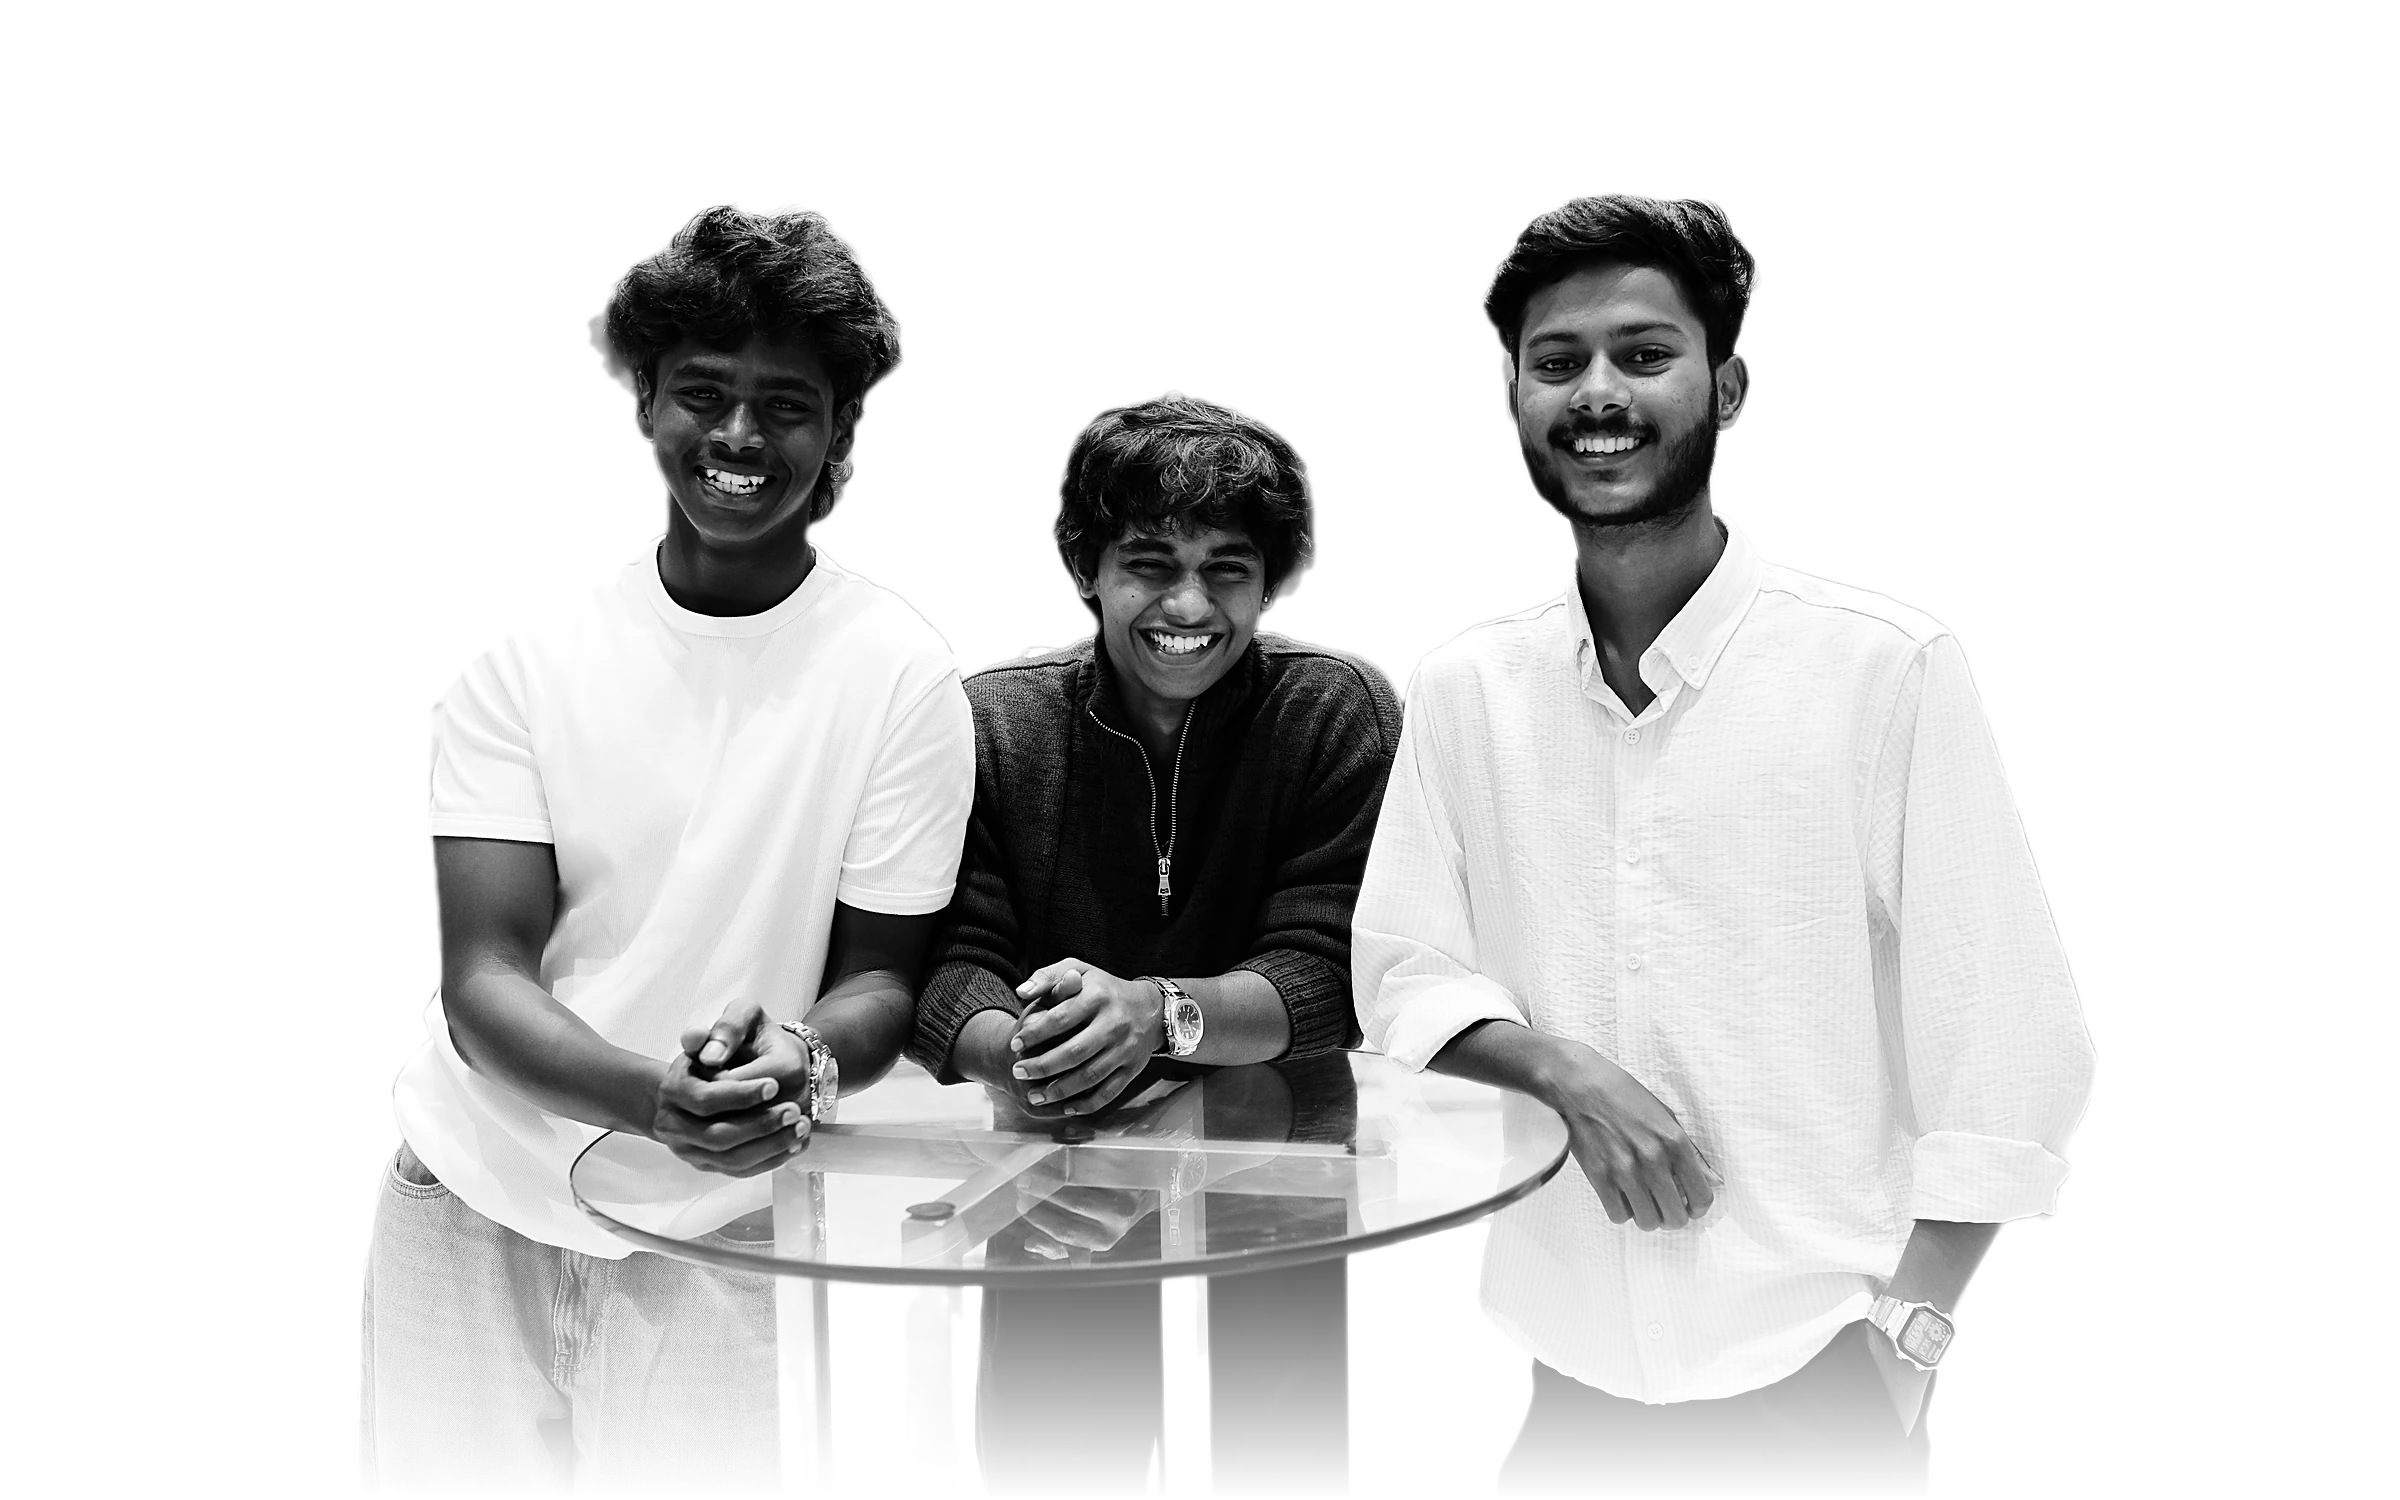
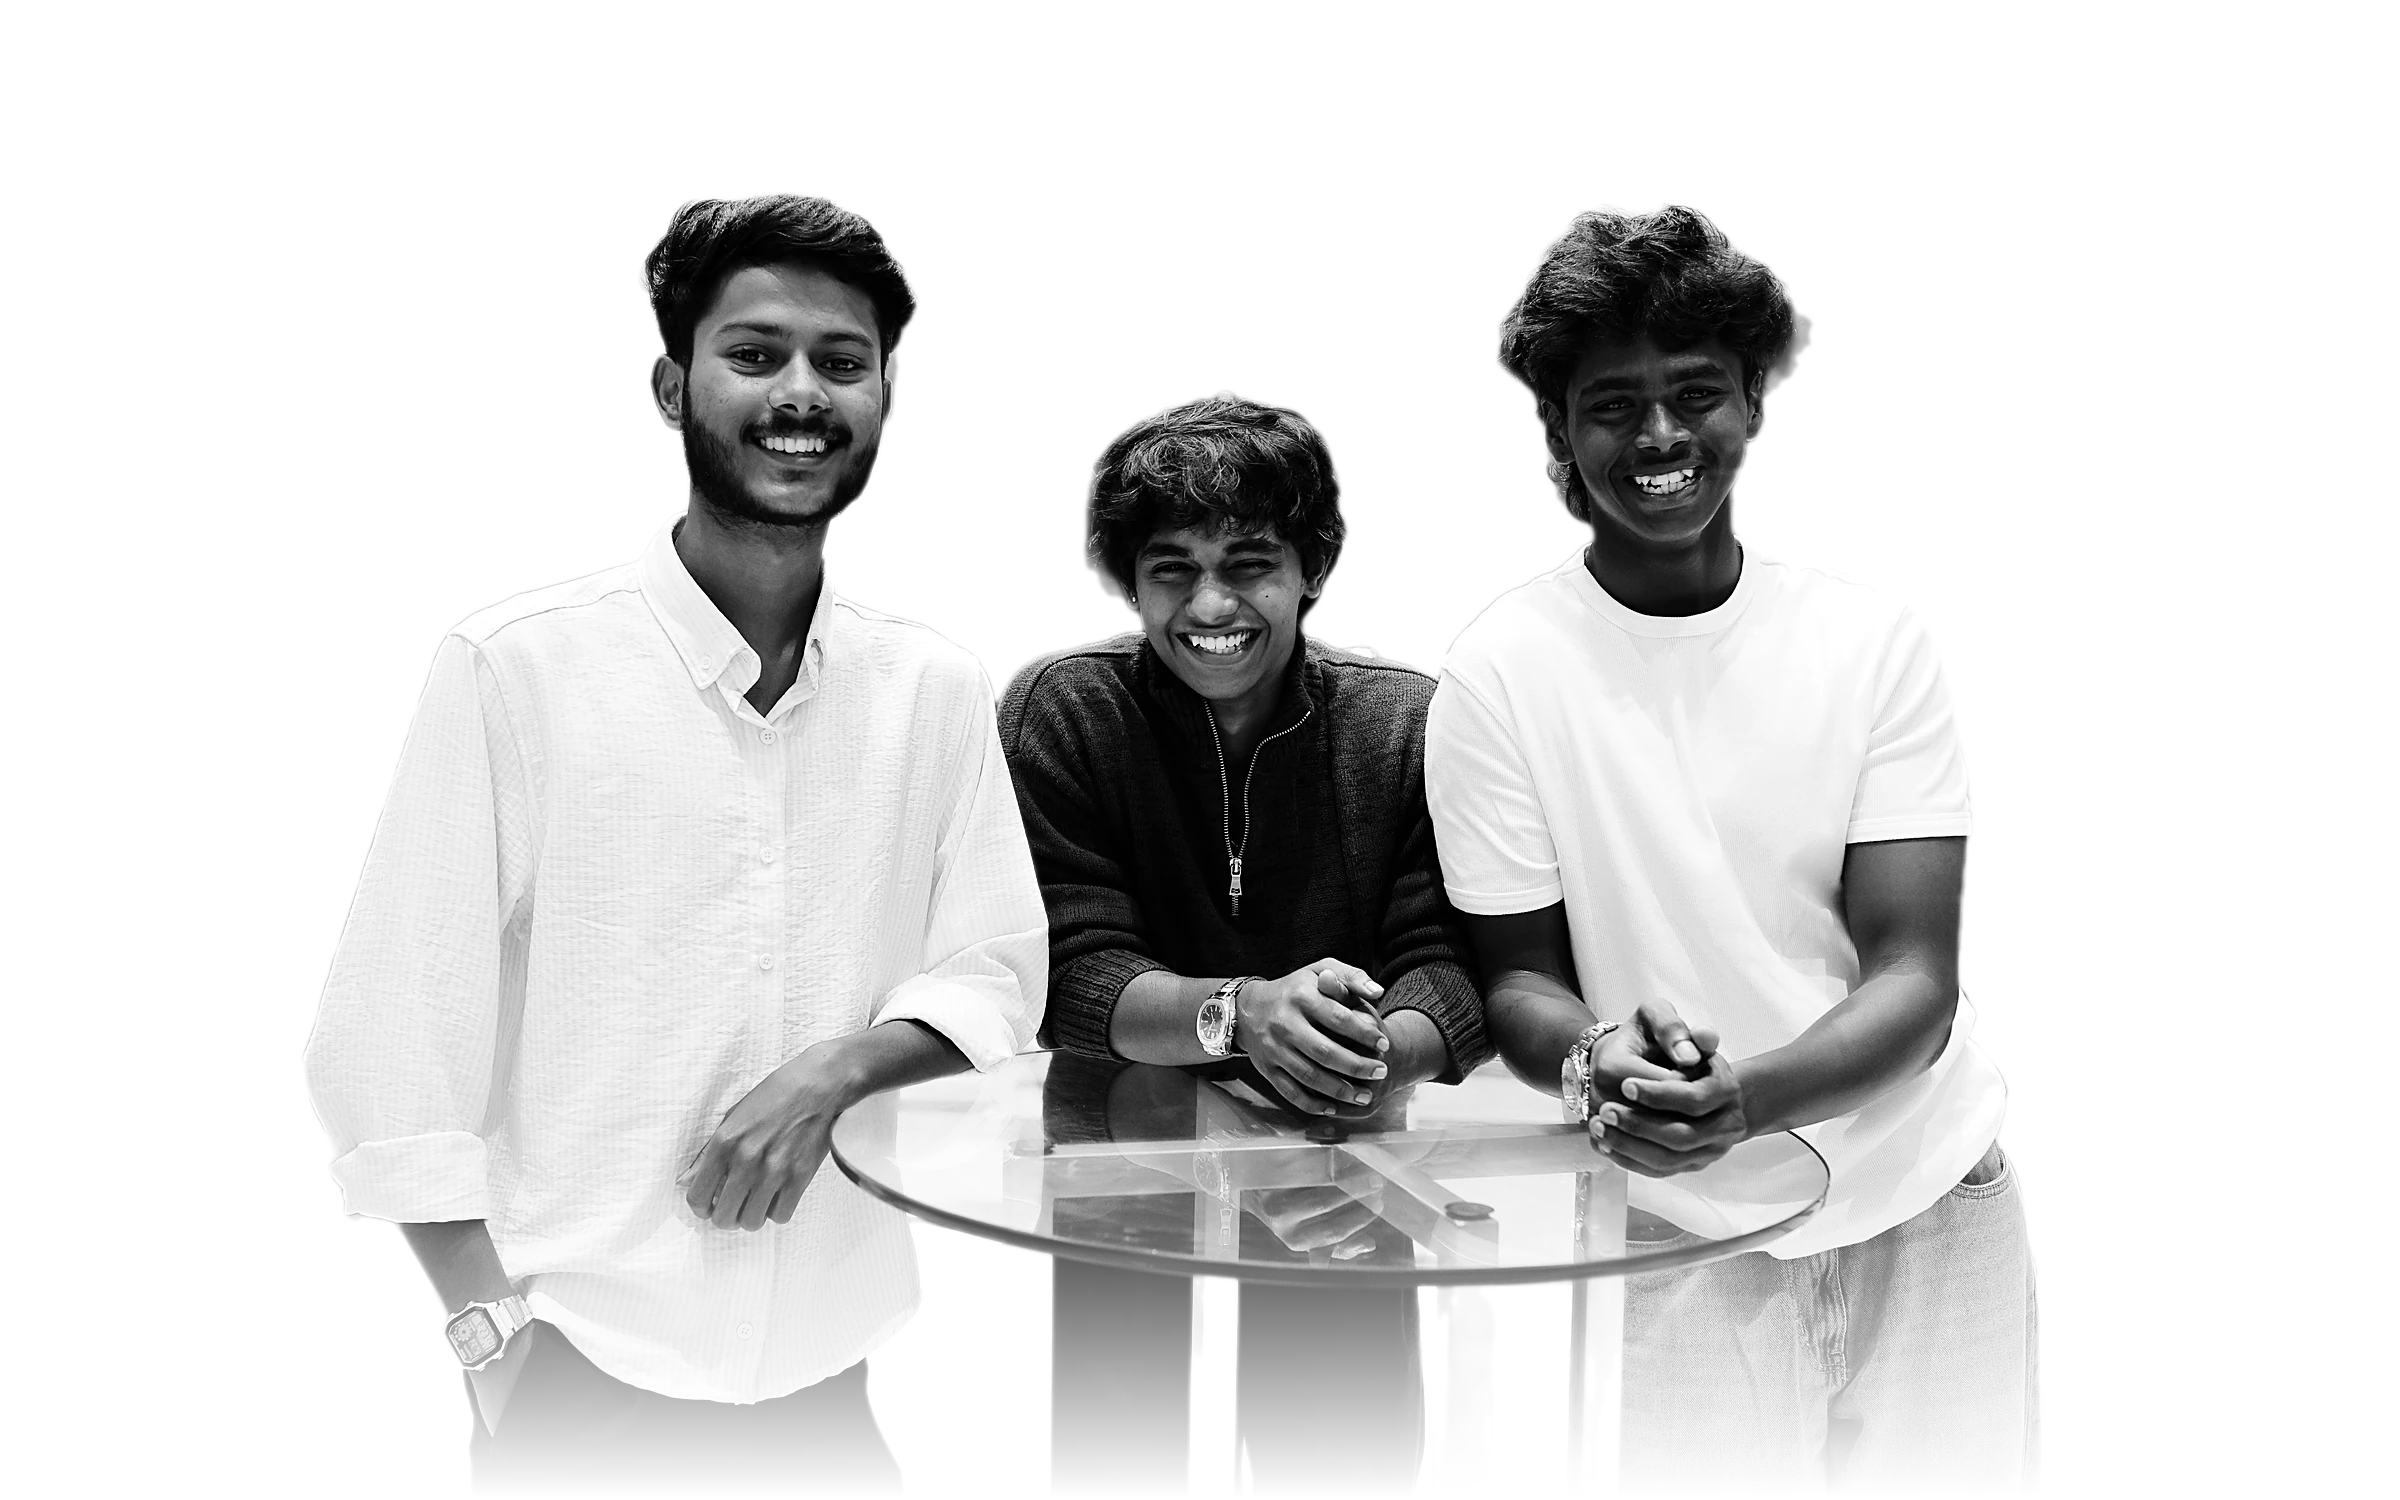
Mirror the team photo, trace Sudhir's shoulder from the original, add the paragraph on click

diff --git a/src/components/Team.tsx b/src/components/Team.tsx
@@ -14,9 +14,9 @@ const CARDS: Record<string, typeof suhail> = { suhail, sudhir, ajay, shyan };
 // ends (percent of the frame), where their name tag sits in the column, and
 // where the glow behind them is centred.
 const FRAME = [
-  { id: "sudhir", left: 0, width: 40, tag: 77, spot: 31 },
-  { id: "ajay", left: 40, width: 18.5, tag: 49, spot: 49 },
-  { id: "suhail", left: 58.5, width: 41.5, tag: 33, spot: 72 },
+  { id: "suhail", left: 0, width: 41.5, tag: 67, spot: 28 },
+  { id: "ajay", left: 41.5, width: 18.5, tag: 51, spot: 51 },
+  { id: "sudhir", left: 60, width: 40, tag: 23, spot: 69 },
 ];
 const IN_FRAME = FRAME.map((f) => ({
   ...f,
@@ -63,8 +63,12 @@ const Corners = () => (
  */
 export default function Team() {
   const [open, setOpen] = useState(false);
-  const [active, setActive] = useState<string | null>(null);
+  const [hover, setHover] = useState<string | null>(null);
+  const [picked, setPicked] = useState<string | null>(null);
   const playRef = useRef<HTMLButtonElement>(null);
+  // Whoever is under the pointer (or was clicked) is shown; a click also
+  // adds their short paragraph under the name.
+  const active = hover ?? picked;
   const spot = IN_FRAME.find((f) => f.id === active)?.spot ?? 50;
   const current = IN_FRAME.find((f) => f.id === active)?.member;
 
@@ -105,11 +109,11 @@ export default function Team() {
         <div
           className={`team-frame ${active ? "has-active" : ""}`}
           style={{ ["--spot" as string]: `${spot}%` }}
-          onPointerLeave={(e) => e.pointerType === "mouse" && setActive(null)}
+          onPointerLeave={(e) => e.pointerType === "mouse" && setHover(null)}
         >
           <Image
             src={group}
-            alt="Sudhir, Ajay and Suhail of Igloo Ads, laughing together at a table"
+            alt="Suhail, Ajay and Sudhir of Igloo Ads, laughing together at a table"
             className="team-photo"
             sizes="(max-width: 1100px) 92vw, 1000px"
           />
@@ -125,23 +129,24 @@ export default function Team() {
                 }}
                 onBlur={(e) => {
                   if (!e.currentTarget.contains(e.relatedTarget as Node))
-                    setActive(null);
+                    setHover(null);
                 }}
               >
                 <button
                   type="button"
                   className="team-person-hit"
                   aria-label={`${t.name}, ${t.role}`}
-                  aria-pressed={id === active}
+                  aria-pressed={id === picked}
                   onPointerEnter={(e) =>
-                    e.pointerType === "mouse" && setActive(id)
+                    e.pointerType === "mouse" && setHover(id)
                   }
-                  onFocus={() => setActive(id)}
-                  onClick={() => setActive(id)}
+                  onFocus={() => setHover(id)}
+                  onClick={() => setPicked((c) => (c === id ? null : id))}
                 />
                 <div className="team-tag">
                   <span className="team-role">{t.role}</span>
                   <strong className="team-tag-name">{t.name}</strong>
+                  {id === picked && <p className="team-tag-line">{t.line}</p>}
                   <a
                     className="team-handle"
                     href={t.instagram}
@@ -164,6 +169,9 @@ export default function Team() {
             <>
               <strong className="team-tag-name">{current.name}</strong>
               <span className="team-role">{current.role}</span>
+              {current.id === picked && (
+                <p className="team-caption-line">{current.line}</p>
+              )}
               <a
                 className="team-member-handle"
                 href={current.instagram}

diff --git a/src/app/globals.css b/src/app/globals.css
@@ -1235,6 +1235,20 @@
     opacity: 0;
     transition: opacity 0.45s;
   }
+  .team-frame::after {
+    content: "";
+    position: absolute;
+    inset: auto 0 0;
+    height: 42%;
+    z-index: 2;
+    pointer-events: none;
+    background: linear-gradient(to top, rgba(29, 31, 56, 0.9) 6%, transparent);
+    opacity: 0;
+    transition: opacity 0.4s;
+  }
+  .team-frame.has-active::after {
+    opacity: 1;
+  }
   .team-frame.has-active::before {
     opacity: 1;
   }
@@ -1294,6 +1308,21 @@
     opacity: 1;
     visibility: visible;
     translate: -50% 0;
+  }
+  .team-tag-line {
+    max-width: 300px;
+    margin: 0;
+    font-size: 14px;
+    line-height: 1.5;
+    color: var(--color-cream);
+    text-shadow: 0 1px 10px rgba(20, 21, 40, 0.9);
+    animation: team-line-in 0.4s var(--ease-out-soft);
+  }
+  @keyframes team-line-in {
+    from {
+      opacity: 0;
+      transform: translateY(6px);
+    }
   }
   .team-caption {
     display: none;
@@ -1383,6 +1412,14 @@
     .team-caption .team-role {
       font-size: 12px;
       letter-spacing: 0.06em;
+    }
+    .team-caption-line {
+      flex-basis: 100%;
+      order: 3;
+      margin: 0;
+      font-size: 14px;
+      line-height: 1.5;
+      color: var(--color-ink-soft, var(--color-ink));
     }
     .team-caption-empty {
       font-family: var(--font-bebas);

diff --git a/scripts/team_group.py b/scripts/team_group.py
@@ -2,7 +2,8 @@
 
 Reads assets/team/group.jpg (never changed), removes the background
 (rembg), clears a few leftovers, turns the people black and white with a gentle S-curve, and writes
-public/media/team-group-cut.webp with a transparent background (2400 x 1500).
+public/media/team-group-cut.webp with a transparent background (2400 x 1500),
+mirrored so the order from the left is Suhail, Ajay, Sudhir.
 
 Needs: pip install "rembg[cpu]" pillow
 Run:   python3 scripts/team_group.py
@@ -21,6 +22,23 @@ SIZE = (2400, 1500)
 
 S_CURVE = [round(255 * (0.5 + 0.5 * math.tanh(1.6 * (v / 255 - 0.5)) / math.tanh(0.8))) for v in range(256)]
 
+# Sudhir's shoulder in the 2400 x 1500 frame, from the collar out along the
+# seam, round the top of the sleeve and down it.
+SHOULDER = [
+    (662, 537), (640, 552), (580, 567), (530, 585), (495, 597), (480, 612),
+    (465, 640), (452, 680), (442, 730), (432, 780), (429, 815), (430, 900),
+]
+
+
+def chaikin(points, rounds):
+    """Round off a polyline's corners (Chaikin corner cutting), keeping its ends."""
+    for _ in range(rounds):
+        out = [points[0]]
+        for (x0, y0), (x1, y1) in zip(points, points[1:]):
+            out += [(0.75 * x0 + 0.25 * x1, 0.75 * y0 + 0.25 * y1), (0.25 * x0 + 0.75 * x1, 0.25 * y0 + 0.75 * y1)]
+        points = out + [points[-1]]
+    return points
+
 
 def main():
     im = ImageOps.exif_transpose(Image.open(SRC)).convert("RGB")
@@ -33,11 +51,13 @@ def main():
     alpha = cut.getchannel("A").point(lambda v: 0 if v < 60 else v)
 
     # A passer-by stands behind Sudhir's left shoulder and, in white, merges
-    # with his shirt. Clear everything above his real shoulder line and left
-    # of his sleeve, before the edge is smoothed so no hard cut shows.
-    clear = Image.new("L", SIZE, 0)
-    ImageDraw.Draw(clear).polygon([(300, 480), (648, 480), (648, 548), (596, 584), (540, 616), (470, 660), (430, 708), (428, 880), (300, 880)], fill=255)
-    alpha = ImageChops.multiply(alpha, ImageChops.invert(clear))
+    # with his shirt, so there the outline is traced by hand from the original
+    # photo (his shoulder seam, then down the sleeve) instead of from rembg.
+    keep = Image.new("L", SIZE, 0)
+    ImageDraw.Draw(keep).polygon([(660, 470)] + chaikin(SHOULDER, 3) + [(700, 900), (700, 470)], fill=255)
+    keep = keep.filter(ImageFilter.MinFilter(3)).filter(ImageFilter.GaussianBlur(1.8))
+    box = (330, 470, 700, 900)
+    alpha.paste(ImageChops.multiply(alpha.crop(box), keep.crop(box)), box)
 
     # Smooth the outline: drop jagged bits, then a soft edge.
     alpha = alpha.filter(ImageFilter.MedianFilter(7)).filter(ImageFilter.MinFilter(3)).filter(ImageFilter.GaussianBlur(1.6))
@@ -51,6 +71,7 @@ def main():
     grey = ImageOps.autocontrast(ImageOps.grayscale(im), cutoff=0.5).point(S_CURVE)
     grey = grey.filter(ImageFilter.UnsharpMask(radius=2, percent=40, threshold=3))
     out = Image.merge("RGBA", (grey, grey, grey, alpha))
+    out = ImageOps.mirror(out)  # Suhail, Ajay, Sudhir from the left
     out.save(OUT, quality=88, method=6)
     print("wrote", OUT, out.size, alpha.getbbox())
 

diff --git a/README.md b/README.md
@@ -84,7 +84,7 @@ metadata.
 ## Team photos
 
 The team section (`src/components/Team.tsx`; names, roles, Instagram links and the closing
-paragraph in `TEAM` and `TEAM_STORY` in `src/lib/content.ts`) shows Sudhir, Ajay and Suhail together in one frame, cut out of the group photo `assets/team/group.jpg` by `scripts/team_group.py` into `public/media/team-group-cut.webp` (column positions in `FRAME`). Hovering (or tapping) a person lights them up and shows their role, name and Instagram in the frame; on phones the details show under it. "Play the team intro" opens an
+paragraph in `TEAM` and `TEAM_STORY` in `src/lib/content.ts`) shows Suhail, Ajay and Sudhir together (the photo is mirrored) in one frame, cut out of the group photo `assets/team/group.jpg` by `scripts/team_group.py` into `public/media/team-group-cut.webp` (column positions in `FRAME`). Hovering (or tapping) a person lights them up and shows their role, name and Instagram in the frame, and a click adds their short paragraph under the name; on phones the details show under the frame. "Play the team intro" opens an
 optional full-screen fly-through: scrolling inside it moves a camera forward past each person's
 card to the next, in the order of `TEAM`, then to the paragraph. It closes with the X, Esc or the
 button at the end, and the page never pins. With reduced motion the intro's cards are stacked.
